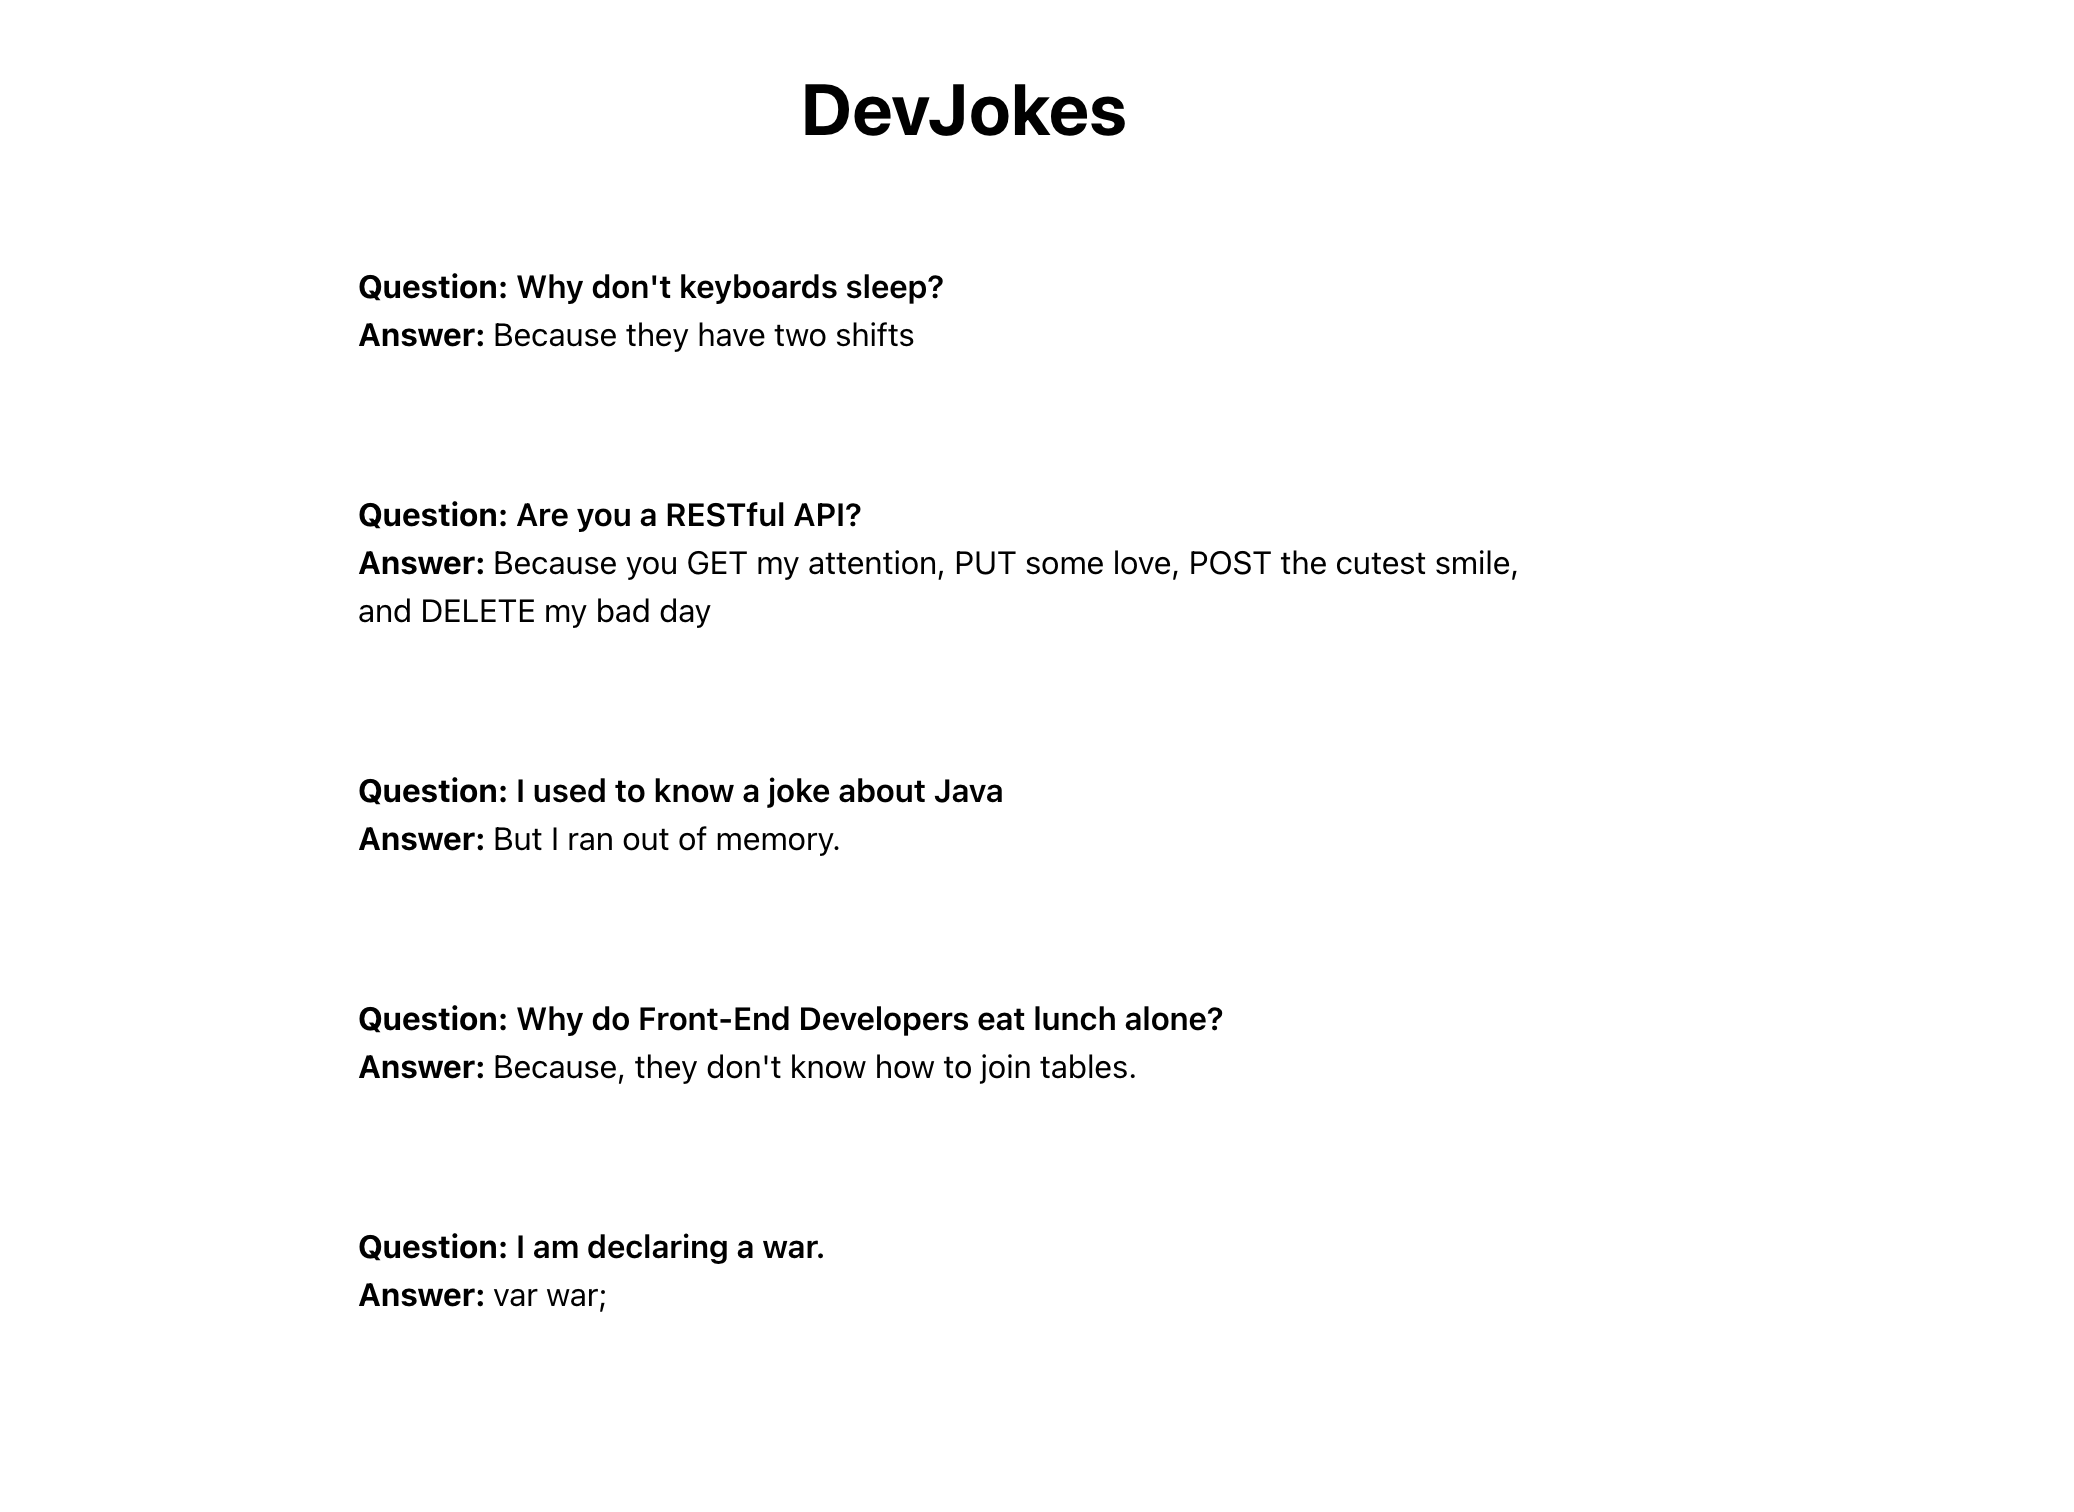
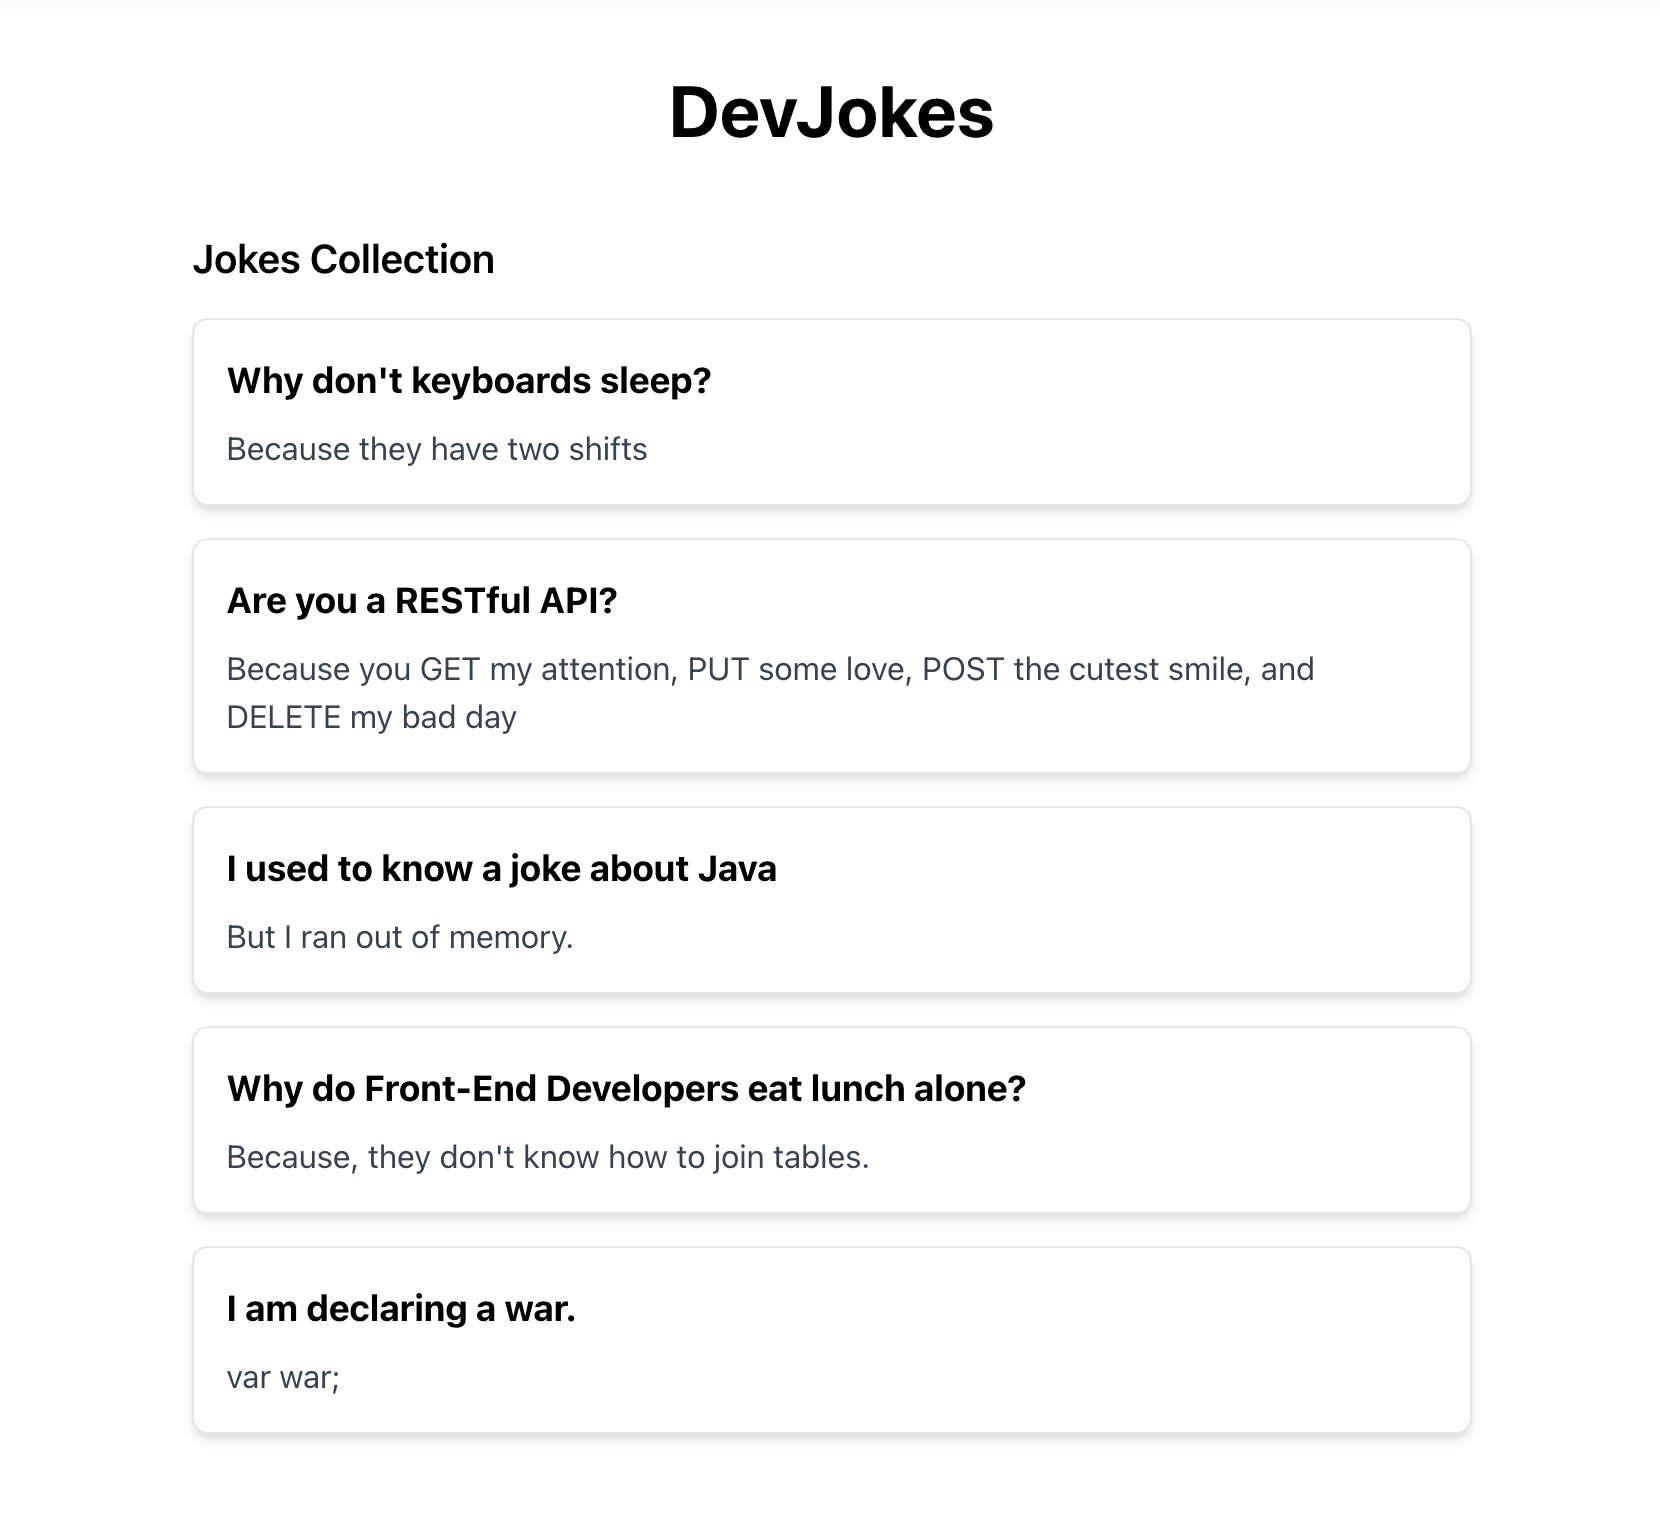
docs: update tutorial reading-writing-file.md

diff --git a/docs/start/framework/react/tutorial/reading-writing-file.md b/docs/start/framework/react/tutorial/reading-writing-file.md
@@ -35,7 +35,7 @@ The complete code for this tutorial is available on [GitHub](https://github.com/
 First, let's create a new TanStack Start project:
 
 ```bash
-pnpx create-start-app devjokes
+pnpm create @tanstack/start@latest devjokes
 cd devjokes
 ```
 
@@ -50,12 +50,11 @@ pnpm i
 pnpm dev
 ```
 
-For this project, we'll need a few additional packages:
+For this project, we'll need the `uuid` package:
 
 ```bash
 # Install uuid for generating unique IDs
 pnpm add uuid
-pnpm add -D @types/uuid
 ```
 
 ## Understanding the project structure
@@ -66,35 +65,29 @@ At this point, the project structure should look like this -
 /devjokes
 ├── src/
 │   ├── routes/
+│   │   ├── demo/                         # Demo routes
 │   │   ├── __root.tsx                    # Root layout
-│   │   ├── index.tsx                     # Home page
-│   │   ├── demo.start.server-funcs.tsx   # Demo server functions
-│   │   └── demo.start.api-request.tsx    # Demo API request
-│   ├── api/                              # API endpoints
+│   │   └── index.tsx                     # Home page
 │   ├── components/                       # React components
-│   ├── api.ts                            # API handler.
-│   ├── client.tsx                        # Client entry point
+│   ├── data/                             # Data files
 │   ├── router.tsx                        # Router configuration
 │   ├── routeTree.gen.ts                  # Generated route tree
-│   ├── ssr.tsx                           # Server-side rendering
 │   └── styles.css                        # Global styles
 ├── public/                               # Static assets
-├── vite.config.ts                         # TanStack Start configuration
+├── vite.config.ts                        # TanStack Start configuration
 ├── package.json                          # Project dependencies
 └── tsconfig.json                         # TypeScript configuration
 ```
 
 This structure might seem overwhelming at first, but here are the key files you need to focus on:
 
-1. `router.tsx` - Sets up routing for your application
+1. `src/router.tsx` - Sets up routing for your application
 2. `src/routes/__root.tsx` - The root layout component where you can add global styles and components
 3. `src/routes/index.tsx` - Your home page
-4. `client.tsx` - Client-side entry point
-5. `ssr.tsx` - Handles server-side rendering
 
 Once your project is set up, you can access your app at `localhost:3000`. You should see the default TanStack Start welcome page.
 
-At this point, your app will look like this -
+At this point, your app will look like this:
 
 ![TanStack Start Welcome Page After Setup](https://raw.githubusercontent.com/TanStack/router/main/docs/router/assets/reading-writing-file-setup.png)
 
@@ -104,10 +97,9 @@ Let's start by creating a file-based storage system for our jokes.
 
 ### Step 1.1: Create a JSON File with Jokes
 
-Let's set up a list of jokes that we can use to render on the page. Create a `data` directory in your project root and a `jokes.json` file within it:
+Let's set up a list of jokes that we can use to render on the page. Create a `jokes.json` file within `src/data`:
 
 ```bash
-mkdir -p src/data
 touch src/data/jokes.json
 ```
 
@@ -214,10 +206,10 @@ export function JokesList({ jokes }: JokesListProps) {
 }
 ```
 
-Now let's call our server function inside `App.jsx` using TanStack Router which already comes with TanStack Start!
+Now let's call our server function inside `index.tsx` using TanStack Router which already comes with TanStack Start!
 
 ```jsx
-// App.jsx
+// src/routes/index.tsx
 import { createFileRoute } from '@tanstack/react-router'
 import { getJokes } from './serverActions/jokesActions'
 import { JokesList } from './JokesList'
@@ -234,8 +226,8 @@ const App = () => {
   const jokes = Route.useLoaderData() || []
 
   return (
-    <div className="p-4 flex flex-col">
-      <h1 className="text-2xl">DevJokes</h1>
+    <div className="max-w-2xl mx-auto py-12 px-4 space-y-6">
+      <h1 className="text-4xl font-bold text-center mb-10">DevJokes</h1>
       <JokesList jokes={jokes} />
     </div>
   )
@@ -246,7 +238,7 @@ When the page loads, `jokes` will have data from the `jokes.json` file already!
 
 With a little Tailwind styling, the app should look like this:
 
-![DevJoke App with 5 DevJokes](https://raw.githubusercontent.com/TanStack/router/main/docs/router/assets/reading-writing-file-devjokes-1.jpg)
+![DevJoke App with 5 DevJokes](https://raw.githubusercontent.com/TanStack/router/main/docs/router/assets/reading-writing-file-devjokes-1.png)
 
 ## Step 2: Writing Data to a File
 
@@ -263,6 +255,14 @@ import * as fs from 'node:fs'
 import { v4 as uuidv4 } from 'uuid' // Add this import
 import type { Joke, JokesData } from '../types'
 
+const JOKES_FILE = 'src/data/jokes.json'
+
+export const getJokes = createServerFn({ method: 'GET' }).handler(async () => {
+  const jokes = await fs.promises.readFile(JOKES_FILE, 'utf-8')
+  return JSON.parse(jokes) as JokesData
+})
+
+// Add this new server function
 export const addJoke = createServerFn({ method: 'POST' })
   .inputValidator((data: { question: string; answer: string }) => {
     // Validate input data
@@ -331,7 +331,7 @@ export function JokeForm() {
   const [error, setError] = useState<string | null>(null)
 
   return (
-    <form onSubmit={handleSubmit} className="flex flex-row gap-2 mb-6">
+    <form onSubmit={handleSubmit} className="mb-8">
       {error && (
         <div className="bg-red-100 text-red-700 p-2 rounded mb-4">{error}</div>
       )}
@@ -377,8 +377,8 @@ Now, let's wire the form up to our `addJoke` server function in the `handleSubmi
 ```tsx
 //JokeForm.tsx
 import { useState } from 'react'
-import { addJoke } from '../serverActions/jokesActions'
 import { useRouter } from '@tanstack/react-router'
+import { addJoke } from '../serverActions/jokesActions'
 
 export function JokeForm() {
   const router = useRouter()
@@ -410,41 +410,44 @@ export function JokeForm() {
   }
 
   return (
-    <form onSubmit={handleSubmit} className="flex flex-row gap-2 mb-6">
+    <form onSubmit={handleSubmit} className="mb-8">
       {error && (
         <div className="bg-red-100 text-red-700 p-2 rounded mb-4">{error}</div>
       )}
-      <input
-        type="text"
-        name="question"
-        placeholder="Question"
-        className="p-1 border rounded w-full"
-        required
-        onChange={(e) => setQuestion(e.target.value)}
-        value={question}
-      />
-      <input
-        type="text"
-        name="answer"
-        placeholder="Answer"
-        className="p-1 border rounded w-full"
-        required
-        onChange={(e) => setAnswer(e.target.value)}
-        value={answer}
-      />
-      <button
-        className="bg-blue-500 text-white p-1 rounded hover:bg-blue-600"
-        disabled={isSubmitting}
-      >
-        {isSubmitting ? 'Adding...' : 'Add Joke'}
-      </button>
+      <div className="flex flex-col sm:flex-row gap-4 mb-8">
+        <input
+          id="question"
+          type="text"
+          placeholder="Enter joke question"
+          className="w-full p-2 border rounded focus:ring focus:ring-blue-300 flex-1"
+          value={question}
+          onChange={(e) => setQuestion(e.target.value)}
+          required
+        />
+        <input
+          id="answer"
+          type="text"
+          placeholder="Enter joke answer"
+          className="w-full p-2 border rounded focus:ring focus:ring-blue-300 flex-1 py-4"
+          value={answer}
+          onChange={(e) => setAnswer(e.target.value)}
+          required
+        />
+        <button
+          type="submit"
+          disabled={isSubmitting}
+          className="bg-blue-500 hover:bg-blue-600 text-white font-medium rounded disabled:opacity-50 px-4"
+        >
+          {isSubmitting ? 'Adding...' : 'Add Joke'}
+        </button>
+      </div>
     </form>
   )
 }
 ```
 
 With this, our UI should look like this:
-![DevJoke App with Form to Add Jokes](https://raw.githubusercontent.com/TanStack/router/main/docs/router/assets/reading-writing-file-devjokes-2.jpg)
+![DevJoke App with Form to Add Jokes](https://raw.githubusercontent.com/TanStack/router/main/docs/router/assets/reading-writing-file-devjokes-2.png)
 
 ## Understanding How It All Works Together
 
